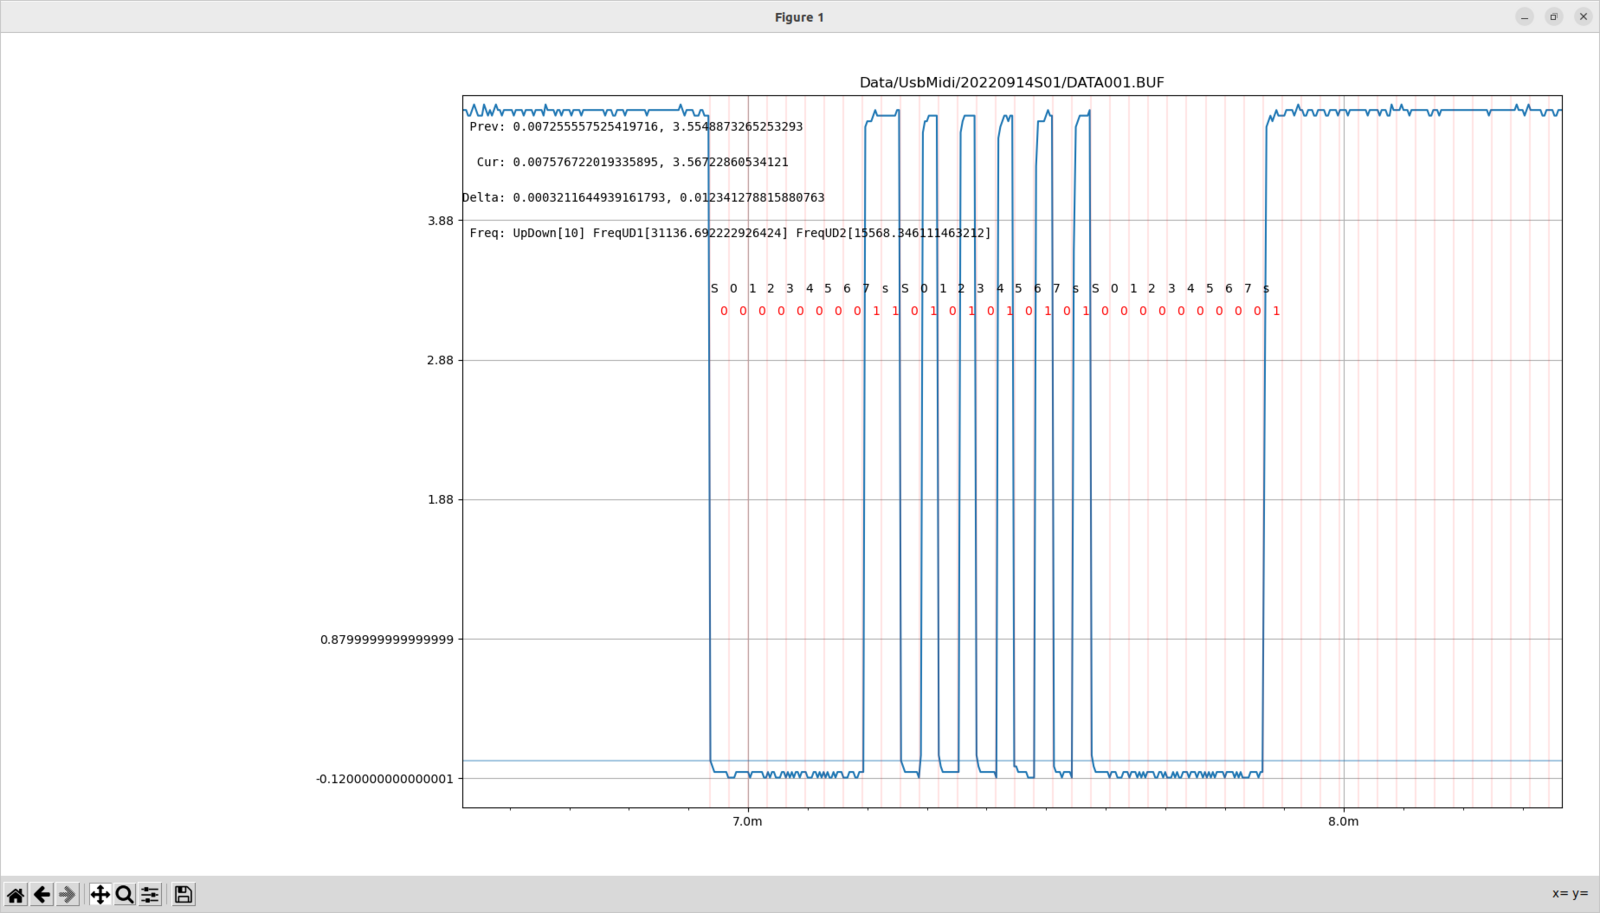
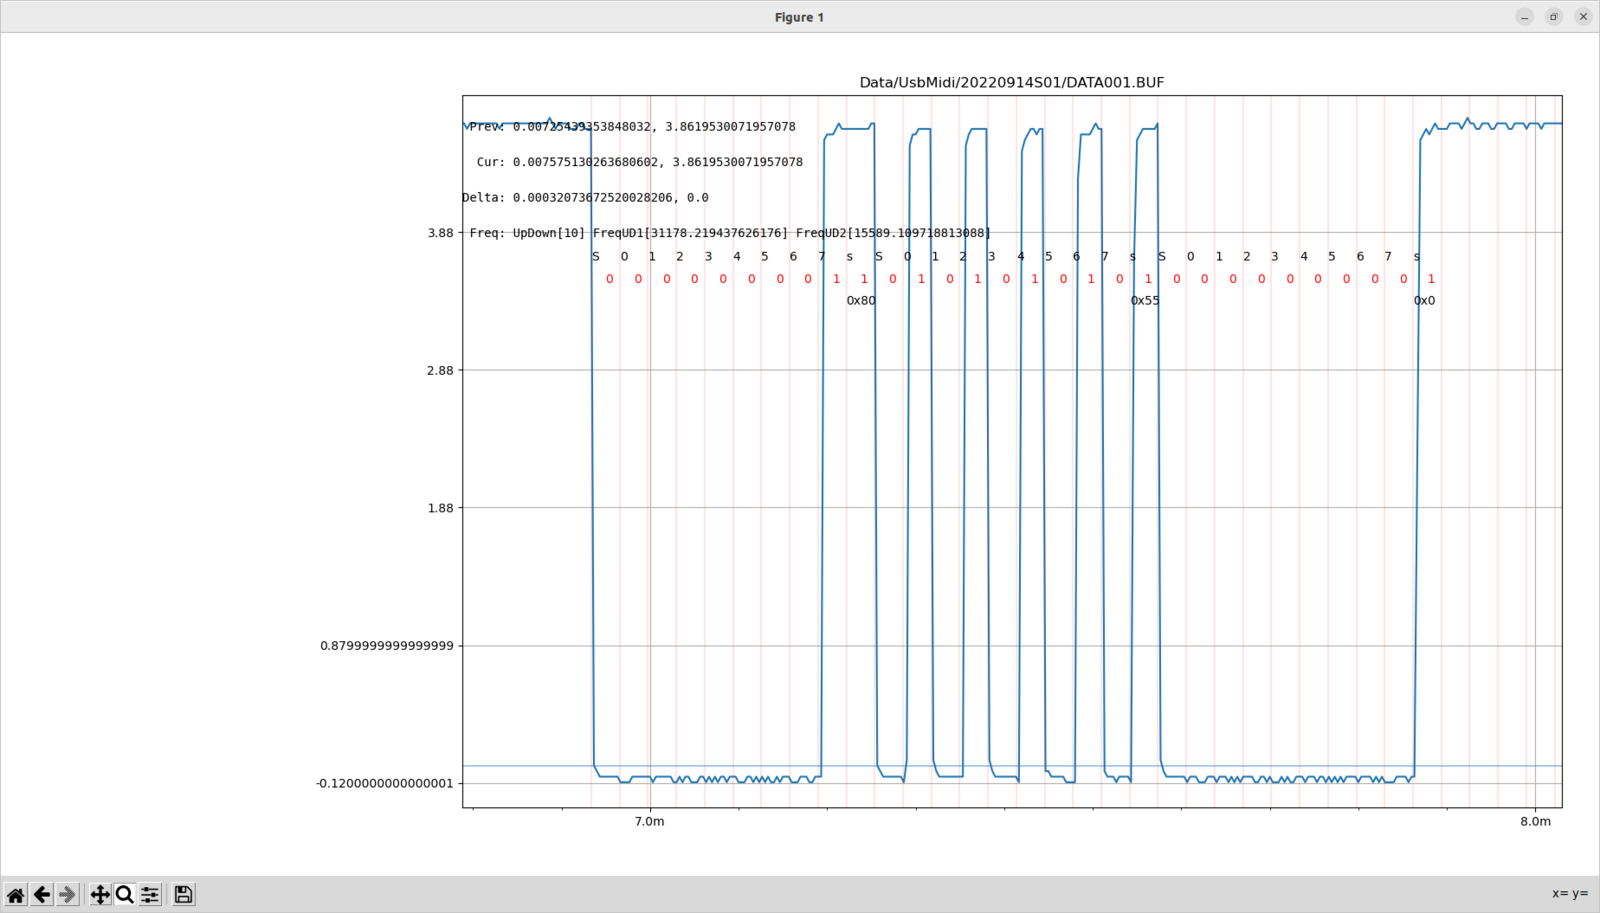
OTDivs:8bitHexValues reposition, update saved plot to inc same

diff --git a/dso-plotter.py b/dso-plotter.py
@@ -369,7 +369,7 @@ def show_info(ev):
                 g['ax'].text(dx, dy, vtext, color="r")
                 i += 1
                 if (marker == 's') or (printMarker):
-                    g['ax'].text(dx, dy-4, hex(gt['val']))
+                    g['ax'].text(tx, dy-4, hex(gt['val']))
                     gt['val'] = 0
                 if marker == 'S':
                     gt['val'] = 0
